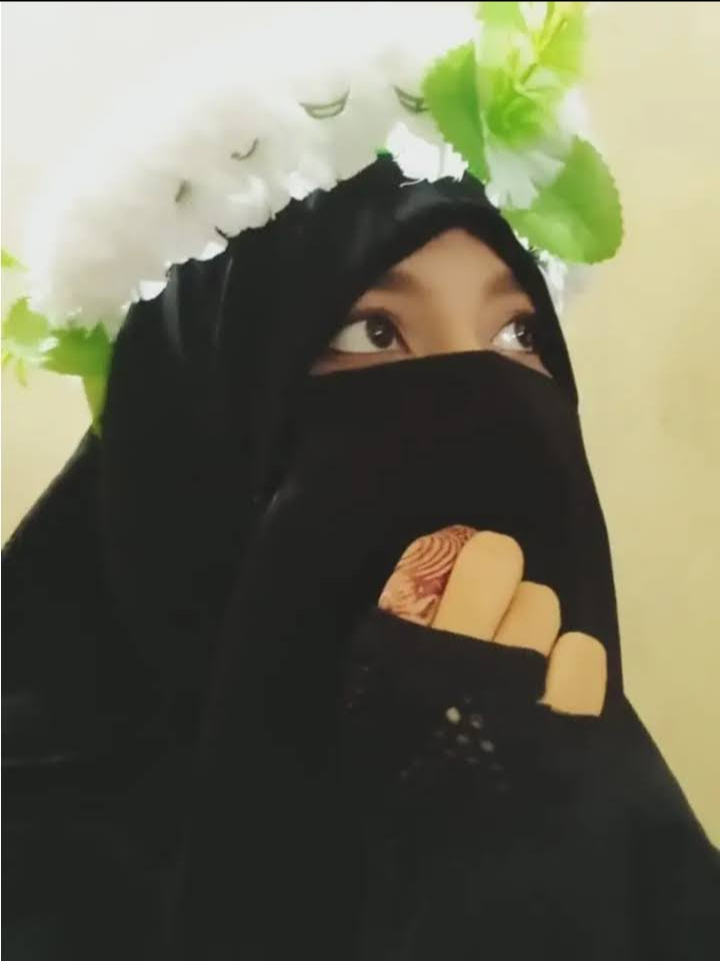
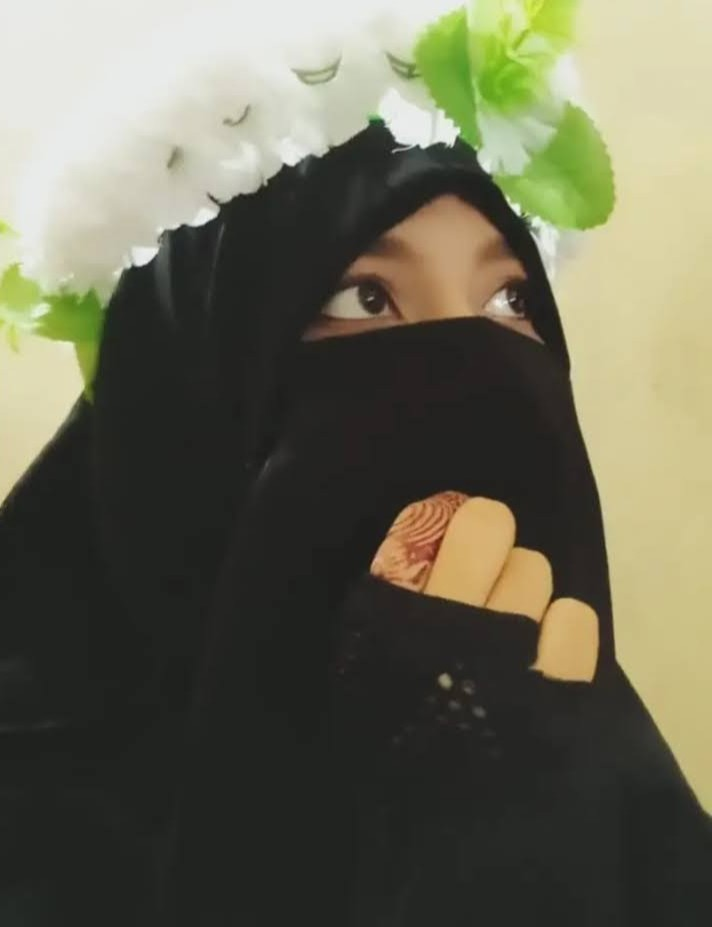
added assets folder

diff --git a/index.html b/index.html
@@ -76,7 +76,7 @@
         <div class="reveal md:justify-self-end">
           <div class="relative">
             <div class="absolute inset-0 rounded-3xl bg-indigo-500/10 blur-2xl"></div>
-            <img src="assets/received_1317489988961186.jpeg" alt="Developer at work" class="relative z-10 h-64 w-64 rounded-3xl object-cover ring-1 ring-inset ring-white/10 md:h-80 md:w-80"/>
+            <img src="assets/img.jpg" alt="Developer at work" class="relative z-10 h-64 w-64 rounded-3xl object-cover ring-1 ring-inset ring-white/10 md:h-80 md:w-80"/>
           </div>
         </div>
       </div>
@@ -152,16 +152,15 @@
       <div class="reveal mt-6 grid gap-6 sm:grid-cols-2 lg:grid-cols-3">
         <!-- Project Card 1 -->
         <article class="group overflow-hidden rounded-2xl border border-slate-800 bg-slate-900/40">
-          <a href="https://your-live-link.com" target="_blank" rel="noreferrer" class="block">
+          <a href="https://bushraaktermimno.github.io/Penguin-Fashion/" target="_blank" rel="noreferrer" class="block">
             <img src="https://images.unsplash.com/photo-1498050108023-c5249f4df085?q=80&w=1200&auto=format&fit=crop" alt="Landing page preview" class="h-44 w-full object-cover transition duration-300 group-hover:scale-105" />
           </a>
           <div class="p-5">
-            <h3 class="font-semibold">SaaS Landing Page</h3>
+            <h3 class="font-semibold">Shop Landing Page</h3>
             <p class="mt-1 text-sm text-slate-400">Figma → Tailwind</p>
             <div class="mt-3 flex flex-wrap gap-2 text-xs text-slate-300">
               <span class="rounded-full border border-slate-700 px-2 py-1">HTML</span>
               <span class="rounded-full border border-slate-700 px-2 py-1">Tailwind</span>
-              <span class="rounded-full border border-slate-700 px-2 py-1">JS</span>
             </div>
           </div>
         </article>
@@ -171,7 +170,7 @@
             <img src="https://images.unsplash.com/photo-1487014679447-9f8336841d58?q=80&w=1200&auto=format&fit=crop" alt="Ecommerce preview" class="h-44 w-full object-cover transition duration-300 group-hover:scale-105" />
           </a>
           <div class="p-5">
-            <h3 class="font-semibold">Shop Homepage</h3>
+            <h3 class="font-semibold">SaaS Landing Page</h3>
             <p class="mt-1 text-sm text-slate-400">PSD → HTML/Bootstrap, responsive grid & filters</p>
             <div class="mt-3 flex flex-wrap gap-2 text-xs text-slate-300">
               <span class="rounded-full border border-slate-700 px-2 py-1">HTML</span>
@@ -182,16 +181,15 @@
         </article>
         <!-- Project Card 3 -->
         <article class="group overflow-hidden rounded-2xl border border-slate-800 bg-slate-900/40">
-          <a href="#" class="block" target="_blank" rel="noreferrer">
+          <a href="https://bushraaktermimno.github.io/Blog/" class="block" target="_blank" rel="noreferrer">
             <img src="https://images.unsplash.com/photo-1504639725590-34d0984388bd?q=80&w=1200&auto=format&fit=crop" alt="WordPress theme preview" class="h-44 w-full object-cover transition duration-300 group-hover:scale-105" />
           </a>
           <div class="p-5">
-            <h3 class="font-semibold">WordPress Theme</h3>
-            <p class="mt-1 text-sm text-slate-400">Custom theme, Elementor widgets, Woo integration</p>
+            <h3 class="font-semibold">Blog Website</h3>
+            <p class="mt-1 text-sm text-slate-400">PSD → HTML/Bootstrap, responsive grid & filters</p>
             <div class="mt-3 flex flex-wrap gap-2 text-xs text-slate-300">
-              <span class="rounded-full border border-slate-700 px-2 py-1">PHP</span>
-              <span class="rounded-full border border-slate-700 px-2 py-1">WordPress</span>
-              <span class="rounded-full border border-slate-700 px-2 py-1">Woo</span>
+              <span class="rounded-full border border-slate-700 px-2 py-1">HTML</span>
+              <span class="rounded-full border border-slate-700 px-2 py-1">Bootstrap</span>
             </div>
           </div>
         </article>
